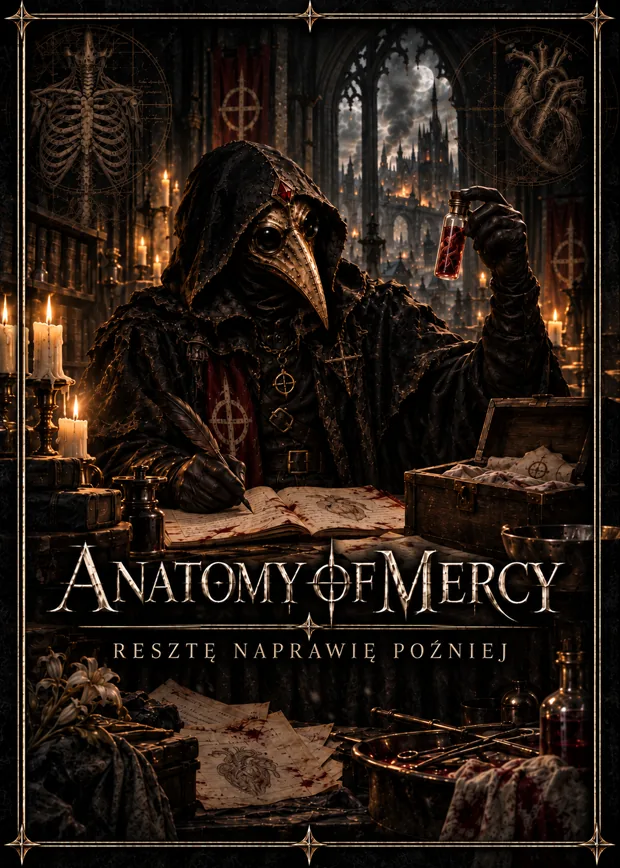
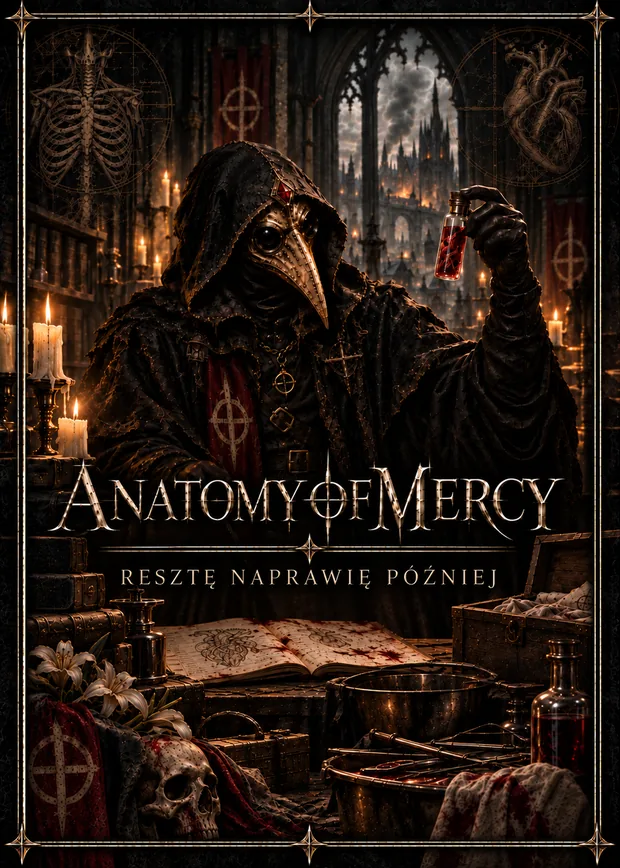
Fade the bottom edge of the header and take the reissued fourth cover
Header
The blur ended in a straight line across the artwork, which was visible
against the lit part of the city. The background and the blur now fade
out together through a mask, so the bar has no lower edge at rest. Once
scrolled the mask is dropped, because there the bar is a solid band with
its own gold hairline and the edge is intended.

Story cover
The fourth cover was reissued with the title set at the same height as
on the other three. The website derivative is regenerated from the new
source at 620x868 and 106 KB, in line with the other covers. Dimensions
are unchanged, so no data file needed updating.

diff --git a/src/assets/scss/components/_header.scss b/src/assets/scss/components/_header.scss
@@ -15,8 +15,12 @@
     position: absolute;
     z-index: -1;
     inset: 0;
-    background: linear-gradient(180deg, rgba(9, 8, 7, .6), rgba(9, 8, 7, .32) 62%, rgba(9, 8, 7, .1));
+    background: linear-gradient(180deg, rgba(9, 8, 7, .62), rgba(9, 8, 7, .28) 58%, rgba(9, 8, 7, 0));
     backdrop-filter: blur(3px);
+    // Maska wygasza takze samo rozmycie. Bez niej backdrop-filter konczyl sie
+    // na dolnej krawedzi ostrym szwem, widocznym na tle ilustracji.
+    mask-image: linear-gradient(180deg, #000 48%, rgba(0, 0, 0, .45) 76%, transparent);
+    -webkit-mask-image: linear-gradient(180deg, #000 48%, rgba(0, 0, 0, .45) 76%, transparent);
     transition: background 320ms ease, backdrop-filter 320ms ease;
     pointer-events: none;
     content: "";
@@ -77,9 +81,13 @@
 .site-header--scrolled, .site-header--menu-open {
   box-shadow: 0 1px 0 rgba(177, 148, 89, 0.3), 0 10px 24px rgba(0,0,0,0.2);
 }
+// Po przewinieciu pasek jest pelna belka z wlasna zlota linia u dolu, wiec
+// wygaszanie krawedzi przestaje byc potrzebne.
 .site-header--scrolled::before, .site-header--menu-open::before {
   background: rgba(9, 8, 7, 0.93);
   backdrop-filter: blur(10px);
+  mask-image: none;
+  -webkit-mask-image: none;
 }
 .language-switcher {
   display: flex; gap: 0.15rem; align-items: center;
